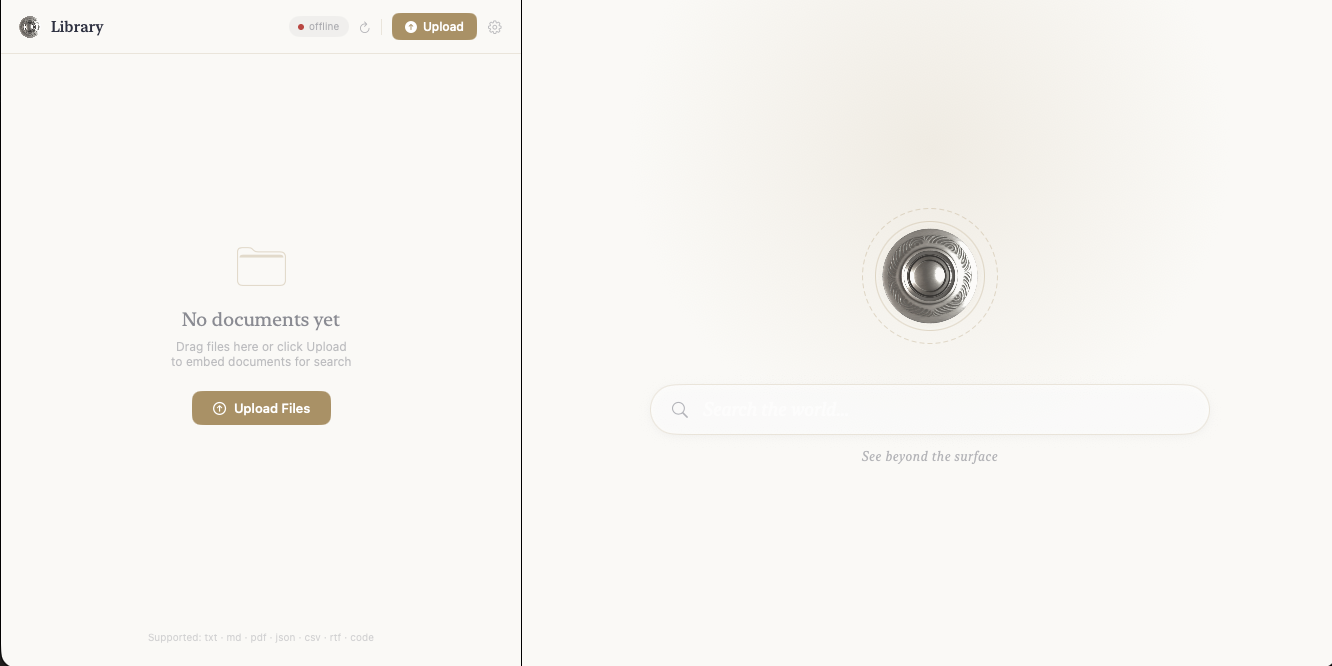
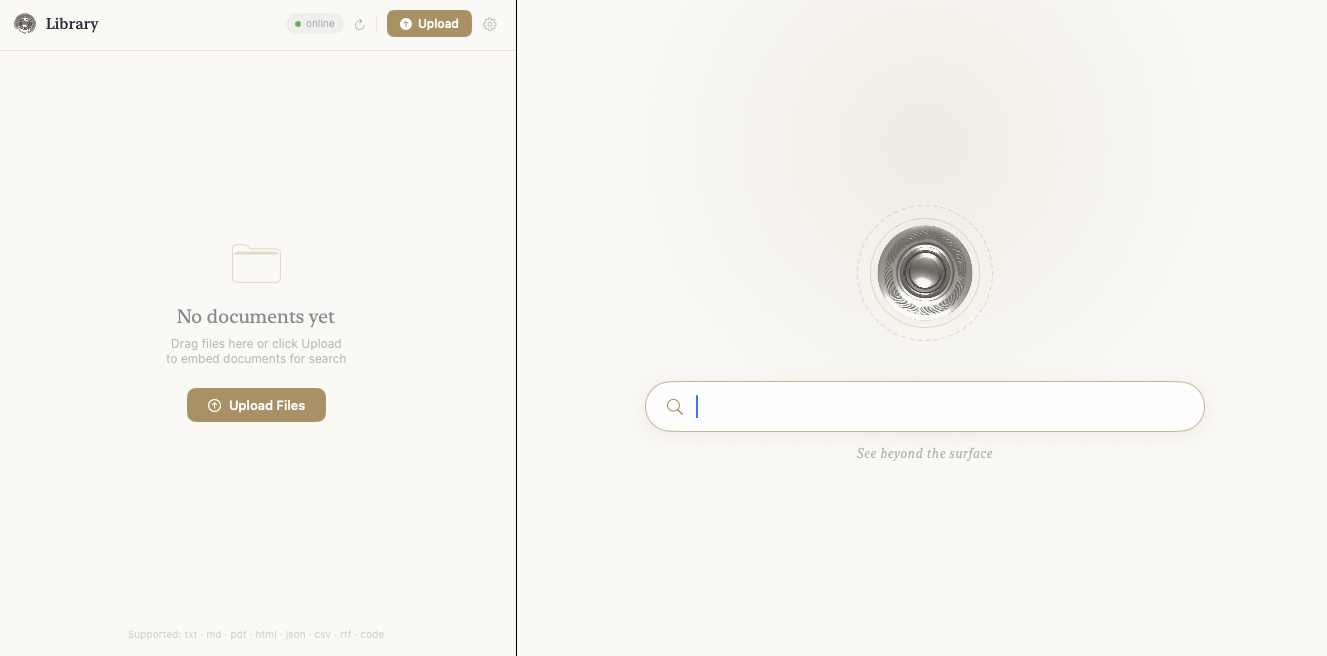
Persist loaded files in the macApp, new route added

diff --git a/Demo/Sources/Core/Services/SeerAPI.swift b/Demo/Sources/Core/Services/SeerAPI.swift
@@ -27,7 +27,7 @@ actor SeerAPI {
 
     // MARK: - Batch embeddings
 
-    func embed(text: String) async throws {
+    func embed(text: String, filename: String? = nil) async throws {
         guard let url = URL(string: "\(baseURL)/v1/batch/embeddings") else {
             throw APIError.invalidURL
         }
@@ -35,6 +35,7 @@ actor SeerAPI {
         let body = EmbedRequest(
             inputs: [[text]],
             sanitize: true,
+            names: filename.map { [$0] },
             seer: EmbedRequest.SeerParams(
                 ownerId: ownerId,
                 group: EmbedRequest.GroupParams(
@@ -117,6 +118,7 @@ actor SeerAPI {
     private struct EmbedRequest: Encodable {
         let inputs: [[String]]
         let sanitize: Bool
+        let names: [String]?
         let seer: SeerParams
 
         struct SeerParams: Encodable {
@@ -129,6 +131,62 @@ actor SeerAPI {
             let id, label, ownerId: String
             let documents: [String]
             enum CodingKeys: String, CodingKey { case id, label, ownerId = "owner_id", documents }
+        }
+    }
+
+    // MARK: - Library
+
+    func fetchLibrary() async throws -> [SeerDocument] {
+        guard let url = URL(string: "\(baseURL)/v1/library") else {
+            throw APIError.invalidURL
+        }
+
+        var req = URLRequest(url: url)
+        req.httpMethod = "POST"
+        req.setValue("application/json", forHTTPHeaderField: "Content-Type")
+        req.httpBody = try JSONEncoder().encode(LibraryRequest(ownerId: ownerId))
+        req.timeoutInterval = 30
+
+        let (data, response) = try await URLSession.shared.data(for: req)
+        guard let http = response as? HTTPURLResponse else { throw APIError.badResponse(0) }
+        guard (200..<300).contains(http.statusCode) else {
+            let msg = String(data: data, encoding: .utf8) ?? "Unknown error"
+            throw APIError.badResponse(http.statusCode, msg)
+        }
+
+        let decoded = try JSONDecoder().decode(LibraryResponse.self, from: data)
+
+        var seen = Set<String>()
+        var documents: [SeerDocument] = []
+        for group in decoded.groups {
+            for doc in group.documents {
+                guard seen.insert(doc.id).inserted else { continue }
+                documents.append(SeerDocument(
+                    id: doc.id,
+                    name: doc.name ?? String(doc.id.prefix(8)),
+                    url: nil,
+                    uploadedAt: Date.now
+                ))
+            }
+        }
+        return documents
+    }
+
+    private struct LibraryRequest: Encodable {
+        let ownerId: String
+        enum CodingKeys: String, CodingKey { case ownerId = "owner_id" }
+    }
+
+    private struct LibraryResponse: Decodable {
+        let groups: [LibraryGroup]
+
+        struct LibraryGroup: Decodable {
+            let documents: [LibraryDocument]
+        }
+
+        struct LibraryDocument: Decodable {
+            let id: String
+            let name: String?
         }
     }
 

diff --git a/Demo/Sources/Core/AppState.swift b/Demo/Sources/Core/AppState.swift
@@ -35,6 +35,29 @@ final class AppState: ObservableObject {
 
     func checkHealth() async {
         serverReachable = await api.isReachable()
+        if serverReachable == true {
+            await loadLibrary()
+        }
+    }
+
+    // MARK: - Library persistence
+
+    func loadLibrary() async {
+        do {
+            let fetched = try await api.fetchLibrary()
+            guard !fetched.isEmpty else { return }
+            // Merge: keep any locally-uploaded docs from this session,
+            // add server docs that aren't already in the list.
+            let existingIds = Set(documents.map { $0.id })
+            let newDocs = fetched.filter { !existingIds.contains($0.id) }
+            if !newDocs.isEmpty {
+                withAnimation(.spring(response: 0.4, dampingFraction: 0.8)) {
+                    documents.append(contentsOf: newDocs)
+                }
+            }
+        } catch {
+            // Silent fail — library is a convenience; missing it doesn't block usage
+        }
     }
 
     // MARK: - Upload
@@ -74,11 +97,12 @@ final class AppState: ObservableObject {
 
         do {
             let currentAPI = api
-            try await currentAPI.embed(text: text)
+            let filename = url.lastPathComponent
+            try await currentAPI.embed(text: text, filename: filename)
 
             let doc = SeerDocument(
                 id: UUID().uuidString,
-                name: url.lastPathComponent,
+                name: filename,
                 url: url,
                 uploadedAt: Date()
             )

diff --git a/Sources/API/Routes/Library.swift b/Sources/API/Routes/Library.swift
@@ -1,0 +1,18 @@
+import Vapor
+
+private struct LibraryRequest: Content {
+    let ownerId: String
+    enum CodingKeys: String, CodingKey { case ownerId = "owner_id" }
+}
+
+struct LibraryResponse: Content {
+    let groups: [Seer.Group]
+}
+
+func registerLibraryRoute(_ app: RoutesBuilder, _ seer: Seer) {
+    app.post("v1", "library") { req async throws -> LibraryResponse in
+        let body = try req.content.decode(LibraryRequest.self)
+        let groups = seer.groups(for: body.ownerId)
+        return LibraryResponse(groups: groups)
+    }
+}

diff --git a/Sources/Database/Models/Seer.Document.swift b/Sources/Database/Models/Seer.Document.swift
@@ -18,19 +18,25 @@ extension Seer {
         // Ties with Gita owners on-chain.
         var ownerId: String
 
+        /// Original filename supplied by the client at embed time. Optional for
+        /// backward compatibility — absent on documents indexed before this field.
+        var name: String?
+
         var createdAt: Date = .now
 
         enum CodingKeys: String, CodingKey {
             case id
             case url
             case ownerId = "owner_id"
+            case name
             case createdAt = "created_at"
         }
 
-        init(id: String, url: URL, ownerId: String, createdAt: Date = .now) {
+        init(id: String, url: URL, ownerId: String, name: String? = nil, createdAt: Date = .now) {
             self.id = id
             self.url = url
             self.ownerId = ownerId
+            self.name = name
             self.createdAt = createdAt
         }
 
@@ -39,6 +45,7 @@ extension Seer {
             id        = try c.decode(String.self, forKey: .id)
             url       = try c.decode(URL.self,    forKey: .url)
             ownerId   = try c.decode(String.self, forKey: .ownerId)
+            name      = try c.decodeIfPresent(String.self, forKey: .name)
             createdAt = try c.decodeIfPresent(Date.self, forKey: .createdAt) ?? .now
         }
     }

diff --git a/Sources/API/Routes/BatchEmbeddings.swift b/Sources/API/Routes/BatchEmbeddings.swift
@@ -5,6 +5,7 @@ private struct PreparedInput {
     let texts: [String]
     let documentId: String
     let tags: [String]
+    let name: String?
     let metadata: Data?
 }
 
@@ -108,11 +109,16 @@ func registerBatchEmbeddingsRoute(
                 ))
             } else if result.texts != nil, let documentId = result.documentId {
                 let docTags = embeddingRequest.tags?[result.index] ?? []
+                let docName: String? = {
+                    guard let names = embeddingRequest.names, result.index < names.count else { return nil }
+                    return names[result.index]
+                }()
                 prepared.append(PreparedInput(
                     index: result.index,
                     texts: result.texts!,
                     documentId: documentId,
                     tags: docTags,
+                    name: docName,
                     metadata: embeddingRequest.metadata?[result.index]
                 ))
             } else if result.documentId != nil {
@@ -199,6 +205,7 @@ func registerBatchEmbeddingsRoute(
                     tagsEmbedding: tagsEmbedding,
                     mediaType: mediaType,
                     update: embeddingRequest.update,
+                    name: docEmbed.preparedInput.name,
                     metadata: docEmbed.preparedInput.metadata
                 ))
                 offset += count

diff --git a/Sources/Database/Commands/Seer+Put.swift b/Sources/Database/Commands/Seer+Put.swift
@@ -10,6 +10,7 @@ extension Seer {
         let tagsEmbedding: [Float]?
         let mediaType: MediaType
         let update: SeerUpdate?
+        let name: String?
         let metadata: Data?
     }
 }
@@ -28,6 +29,7 @@ extension Seer {
              tagsEmbedding: [Float]? = nil,
              mediaType: MediaType = .text,
              update: SeerUpdate? = nil,
+             name: String? = nil,
              metadata: Data? = nil,
              request: SeerRequest) async -> Seer.Document {
         let storage = documentStore(for: id)
@@ -46,7 +48,7 @@ extension Seer {
             ))
         }
 
-        let document = Seer.Document(id: id, url: storage.url, ownerId: request.ownerId)
+        let document = Seer.Document(id: id, url: storage.url, ownerId: request.ownerId, name: name)
         storage.save(state: document)
         documentCache.cache(document)
 
@@ -100,7 +102,7 @@ extension Seer {
                     ownerId: request.ownerId
                 )
             }
-            let document = Seer.Document(id: item.id, url: storage.url, ownerId: request.ownerId)
+            let document = Seer.Document(id: item.id, url: storage.url, ownerId: request.ownerId, name: item.name)
             storage.save(state: document)
             prepared.append(Prepared(document: document, partitions: partitions, update: item.update))
         }

diff --git a/Sources/API/Models/Requests/EmbeddingRequest.swift b/Sources/API/Models/Requests/EmbeddingRequest.swift
@@ -52,6 +52,8 @@ struct EmbeddingBatchRequest: Content, Codable {
     let mediaType: MediaType?
     /// Per-document metadata payloads; outer index aligns 1:1 with `inputs`.
     let metadata: [Data?]?
+    /// Per-document original filenames; outer index aligns 1:1 with `inputs`.
+    let names: [String?]?
 
     enum CodingKeys: String, CodingKey {
         case inputs
@@ -66,6 +68,7 @@ struct EmbeddingBatchRequest: Content, Codable {
         case tags
         case mediaType = "media_type"
         case metadata
+        case names
     }
 }
 

diff --git a/Demo/Sources/Core/Models.swift b/Demo/Sources/Core/Models.swift
@@ -5,7 +5,7 @@ import Foundation
 struct SeerDocument: Identifiable, Equatable {
     let id: String
     let name: String
-    let url: URL
+    let url: URL?
     let uploadedAt: Date
 }
 

diff --git a/Sources/SeerMiniServer.swift b/Sources/SeerMiniServer.swift
@@ -8,6 +8,7 @@ func configureRoutes(_ app: Application, _ seer: Seer, embeddingModelProvider: a
     let protected = app.grouped(Middleware())
     registerSearchRoute(protected, seer, embeddingModelProvider: embeddingModelProvider)
     registerBatchEmbeddingsRoute(protected, seer, embeddingModelProvider: embeddingModelProvider)
+    registerLibraryRoute(protected, seer)
 }
 
 // Pass-through middleware — no auth in SeerMini; ownerId comes from the request body.